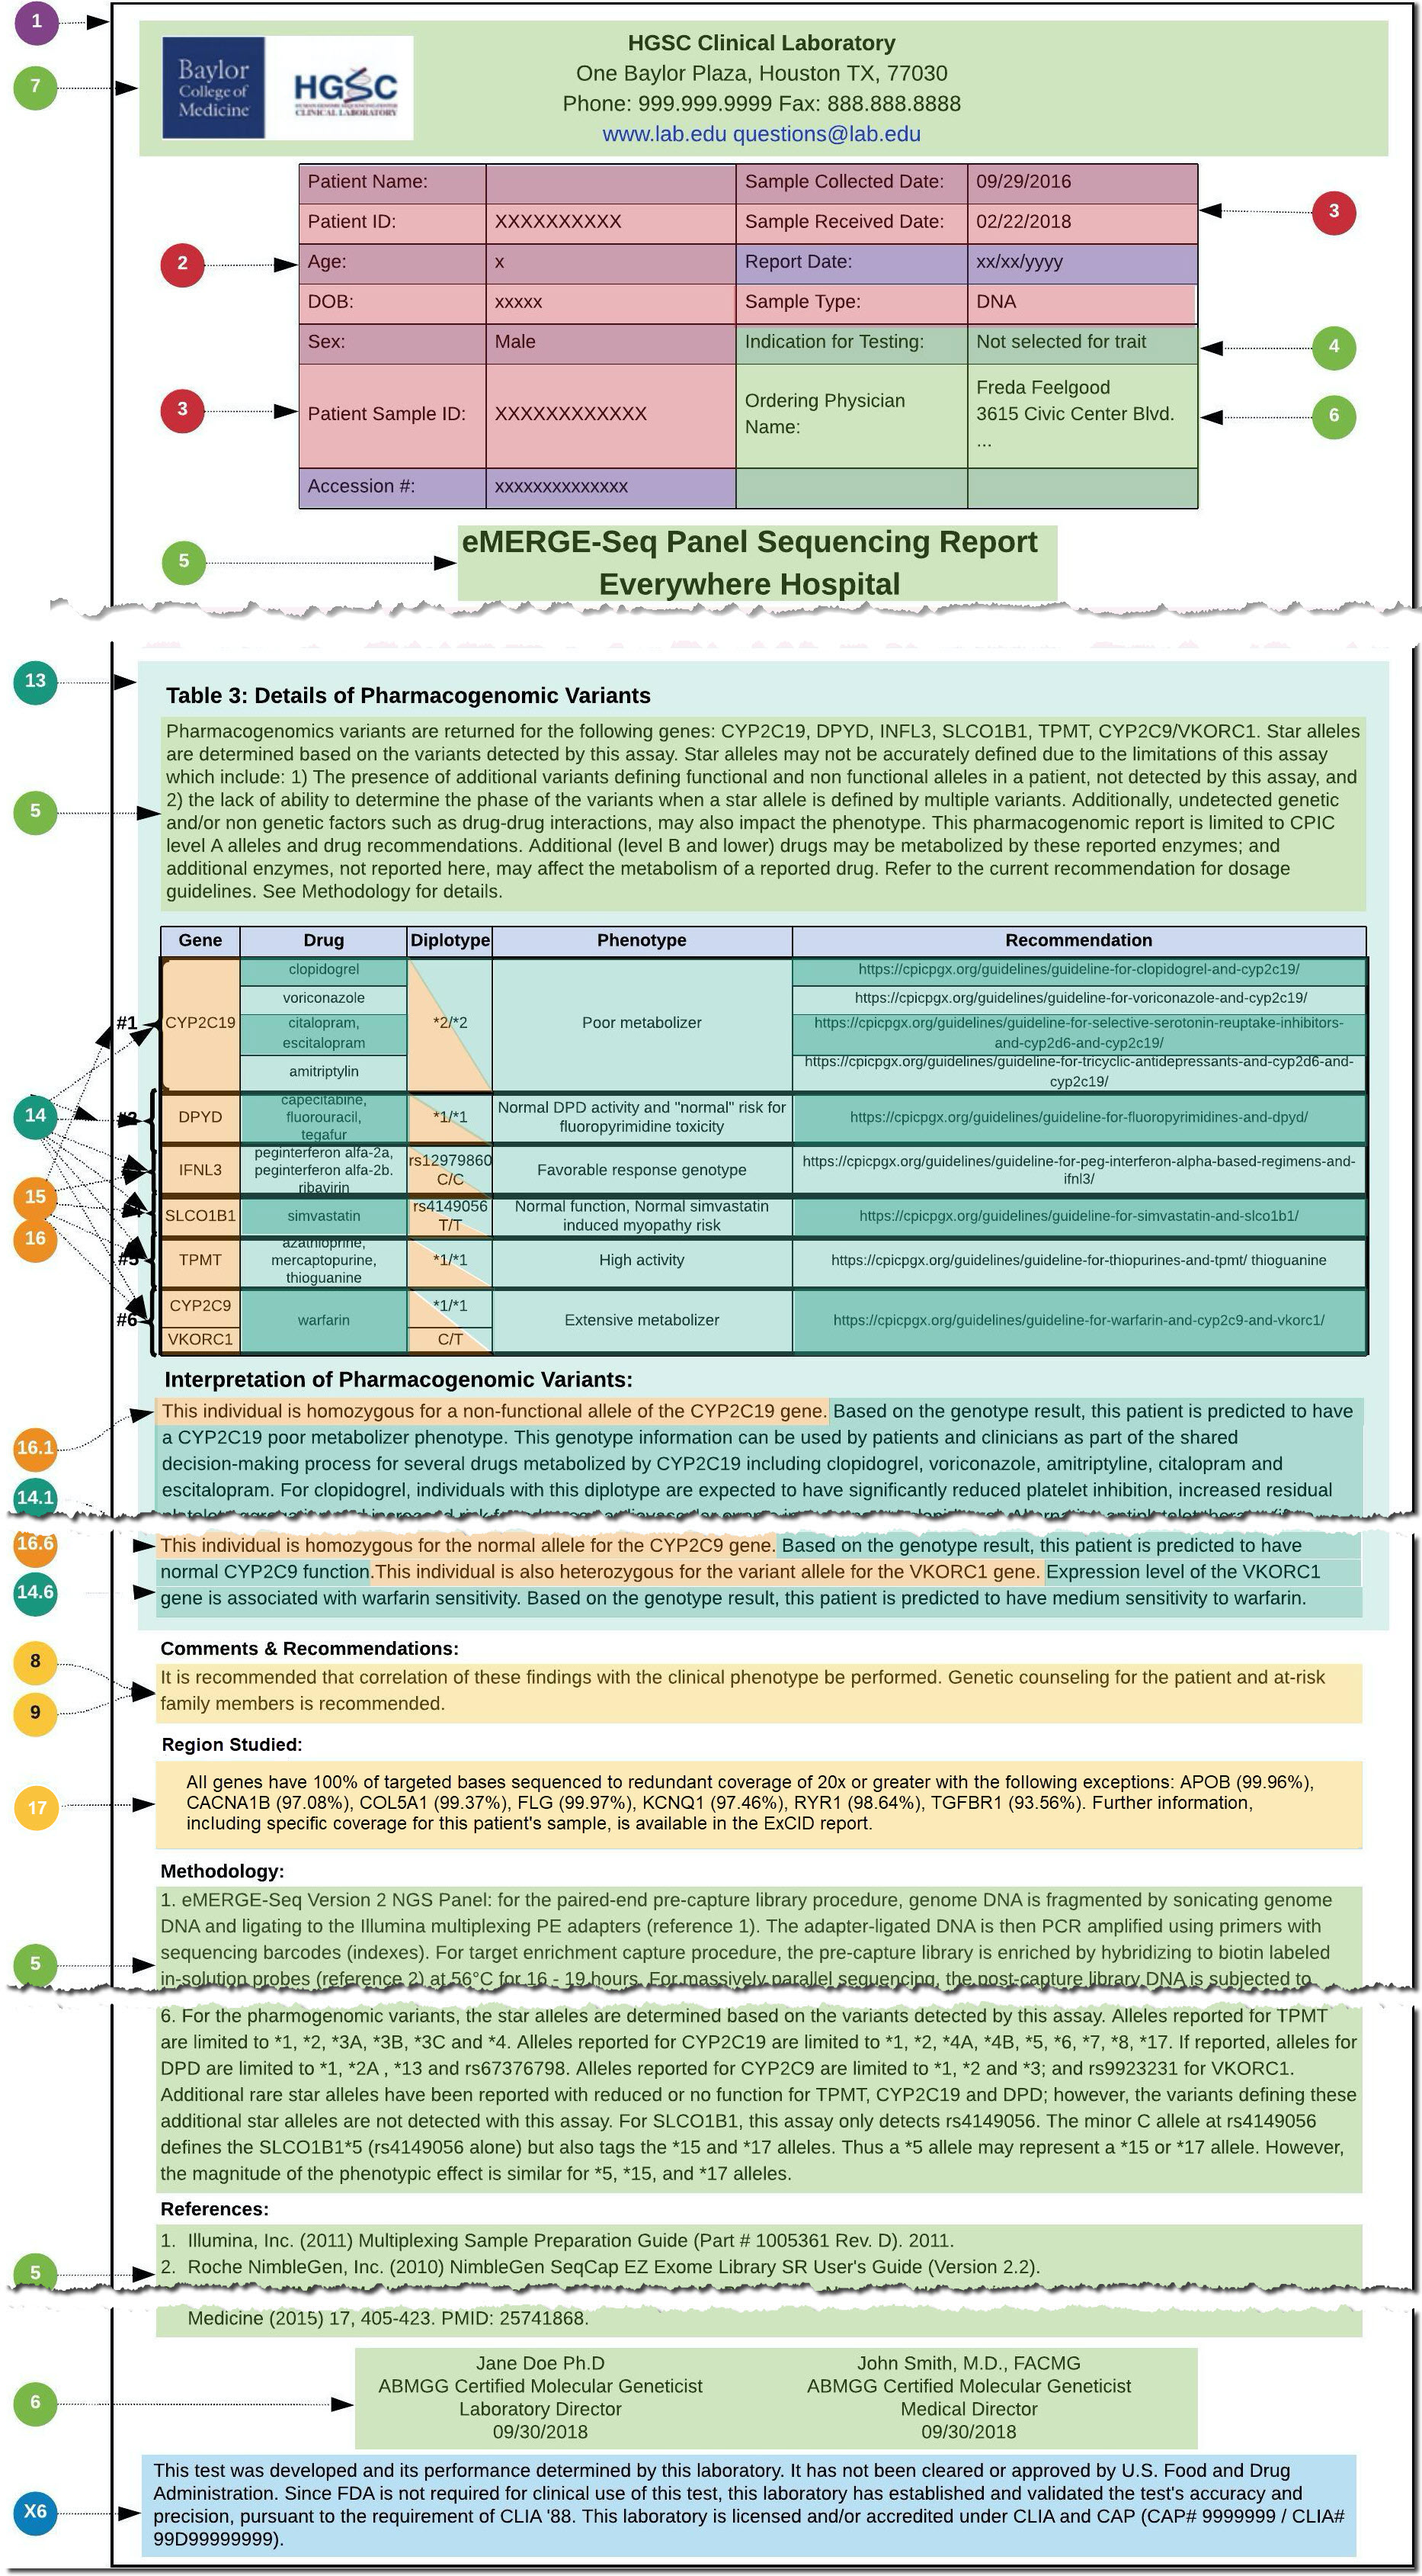
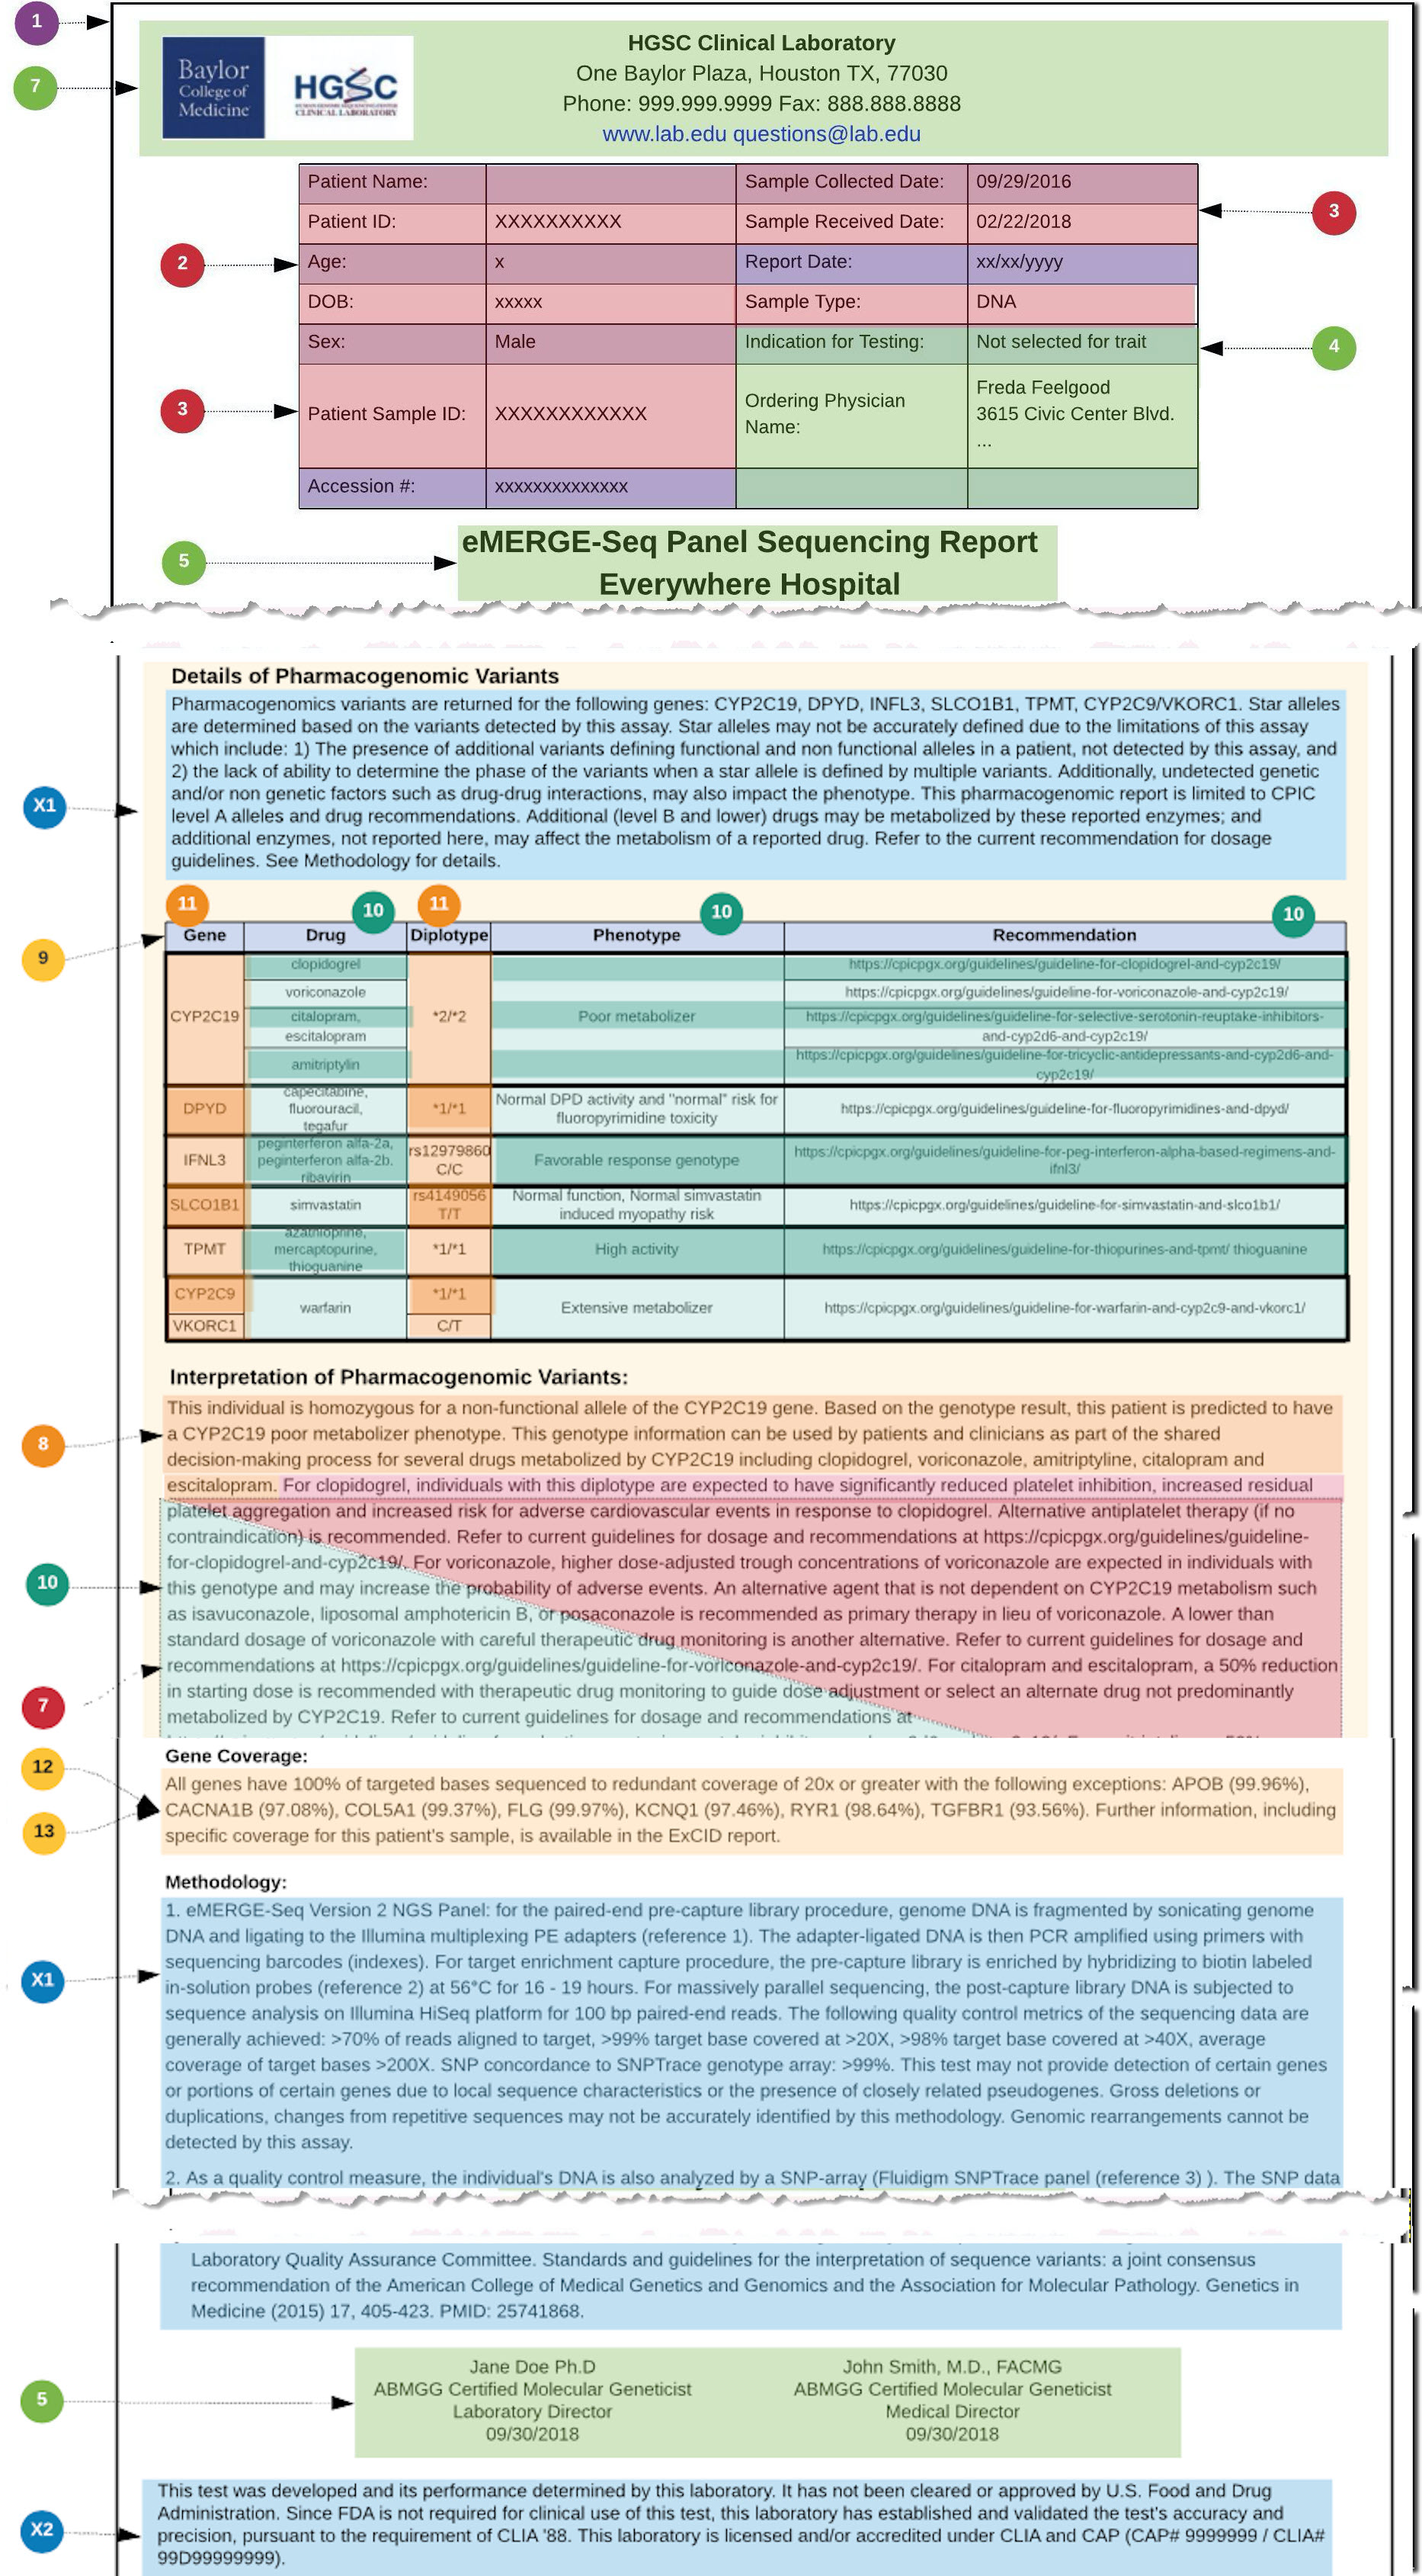
Package fix for ballot, FHIR#27743, typos in images on new PGx page

diff --git a/input/pages/pharmacogenomics.md b/input/pages/pharmacogenomics.md
@@ -1,5 +1,7 @@
 ### Building a Pharmacogenomic Report: An Example
-This section provides a walk-through of mapping from an example Pharmacogenomics (PGx) report to FHIR using the structure definitions and guidance defined in this IG. The complete FHIR example report can be found [here](DiagnosticReport-PGxGenomicsReportEMERGE.html). A PGx report focuses on the impacts of a patient's genetics to the behavior of medications, and can provide recommended adjustments to medication based on these impacts. The intention of this page is to provide a “User Guide”, based on a specific report example, highlighting how the defined profiles can be used together to encode important relations in PGx reporting. The report and images for this guide are built upon work done by the eMERGE (Electronic Medical Records and Genomics) program, funded by the National Human Genome Research Institute (NHGRI). The Clinical Genomics Working Group has worked closely with eMERGE to integrate community feedback from their initial mapping into this PGx user guide. 
+This section provides a walk-through of mapping from an example Pharmacogenomics (PGx) report to FHIR using the structure definitions and guidance defined in this IG. The JSON representation of this PGx report as a FHIR DiagnosticReport instance can be found [here](DiagnosticReport-PGxGenomicsReportEMERGE.json.html) and the result Observations and other instances for the report are available as links in the table at the bottom of this section.
+
+A PGx report focuses on the impacts of a patient's genetics to the behavior of medications, and can provide recommended adjustments to medication based on these impacts. The intention of this page is to provide a “User Guide”, based on a specific report example, highlighting how the defined profiles can be used together to encode important relations in PGx reporting. The report and images for this guide are built upon work done by the eMERGE (Electronic Medical Records and Genomics) program, funded by the National Human Genome Research Institute (NHGRI). The Clinical Genomics Working Group has worked closely with eMERGE to integrate community feedback from their initial mapping into this PGx user guide. 
 
 ### Ordering a Pharmacogenomic Test
 In order to receive a PGx report, you must first order a PGx test. Genomic tests, like all laboratory tests, are ordered using the [Service Request Resource](http://hl7.org/fhir/servicerequest.html). In this case, the [Request for Genomics Test](StructureDefinition-servicerequest.html) should be used for ordering the PGx text. Please see the links for more information about these resources. The example report in this section is based on a pre-coordinated gene panel defined by the sequencing laboratory. As such, the “code” element on the PGx report aligns with a pre-coordinated “code” element on the corresponding ServiceRequest, though the laboratory may provide additional codes as well. Additional structure may be in scope for the report if additional “orderDetail” data are present in the Service Request or if supporting information such as current medications are available during generation. An overview of the general relationships involved in ordering a report and receiving the results can be found [here](general.html#general-relationships).
@@ -132,7 +134,7 @@ The following table contains additional information regarding the profiles used 
 | [Recommended Action](StructureDefinition-RecommendedAction.html) (extension) | The recommended action (extension) references a proposed action that is recommended based on the results of the diagnostic report. It is not linked to individual variants and medications. Another possible type of recommendation is for additional follow-up testing of the subject or family members. This is an extension and may not be understood by all systems so care must be made that receivers are able to consume Task resources not normally linked with DiagnosticReports. It is intended as a textual recommendation. The information could also appear in the ‘text’ element of the diagnostic report, which may be improved to support coded data in future releases of FHIR. | | Note that extensions may not be included in generated narrative summaries. |
 | [Related Artifact](StructureDefinition-CGRelatedArtifact.html) (extension) | Captures citations, evidence and other supporting documentation for the observation or report. Included on the DiagnosticReport and Implication Observation structure through an extension.<br /><br />This dataType allows more structure than what would easily be represented in a text narrative.<br /><br />Useful for referring to guidelines, infobutton, lab methodology or any other supporting documentation.| | Note that extensions may not be included in generated narrative summaries. |
 | [Diagnostic Report Risk Assessment Reference](StructureDefinition-diagnosticReport-risk.html) | While not used in the eMERGE example, the Risk Assessment Reference is used in a diagnostic report to refer to a Risk Assessment profile. The Risk Assessment resource captures predicted outcomes for a patient or population on the basis of source information. Examples include: A prognosis statement for a particular condition; Risk of health outcome (heart attack, particular type of cancer) on the basis of lifestyle factors and/or family history; List of potential health risks based on a patient's genetic analysis.<br /><br />This resource can be used to represent the results of formal scoring/decision support tools that evaluate risk. It can also be used to capture a practitioner's subjective assessment of the patient's risk based on existing knowledge and previous experience. | | Not used in this example |
-| [Plan Definition](https://www.hl7.org/fhir/plandefinition.html) | A plan definition is a pre-defined group of actions to be taken in particular circumstances, often including conditional elements, options, and other decision points. The resource is flexible enough to be used to represent a variety of workflows, as well as clinical decision support and quality improvement assets, including order sets, protocols, and decision support rules. | | In the eMERGE report, this is used to provide additional methodology information, as an alternative to using related artifact or Observation.method. This use is still experimental and has not been included in our example. |
+| [Plan Definition](https://www.hl7.org/fhir/plandefinition.html) | A plan definition is a pre-defined group of actions to be taken in particular circumstances, often including conditional elements, options, and other decision points. The resource is flexible enough to be used to represent a variety of workflows, as well as clinical decision support and quality improvement assets, including order sets, protocols, and decision support rules. | | In the eMERGE report, this is used to provide additional methodology information, as an alternative to using related artifact or Observation.method. This use is still experimental and has not been included in our example. It is labelled as 'X1' in the figures. |
 {: .grid}
 
 This [Artifact List](artifacts.html) provides a comprehensive listing of the FHIR artifacts defined as part of the Genomics Implementation Guide and may be helpful when developing the PGx report. 
@@ -140,7 +142,7 @@ This [Artifact List](artifacts.html) provides a comprehensive listing of the FHI
 ### Mapping to eMERGE III FHIR Template
 Notable changes from the [eMERGE III FHIR Template](https://emerge-fhir-spec.readthedocs.io/en/latest/) docs include:
 1. Scope - this example focuses on the PGx panel within the eMERGE report and does not include a separate diagnostic panel. 
-1. Extensions - the eMERGE ‘summary interpretation text extension’ is now supported through an Observation component.
+1. Extensions - the eMERGE ‘summary interpretation text extension’ is now supported through an Observation component. The eMERGE usage of the ‘report disclaimer text extension’ is not included in our example, but is seen by the 'X2' label in the figures.
 1. RegionStudied Observation - the eMERGE III FHIR Template did not structure data using the region-studied profile. Data on which genes and regions the lab studied were represented in plain text and in the PlanDefinition representing the test.
 1. Medication Usage Task - the original eMERGE spec did not structure medication recommendation proposals, which were left in plain text comments.
 
